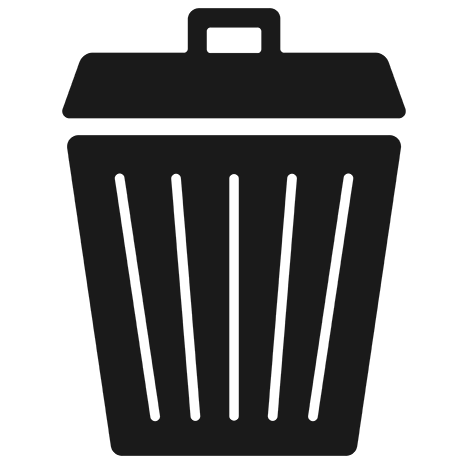
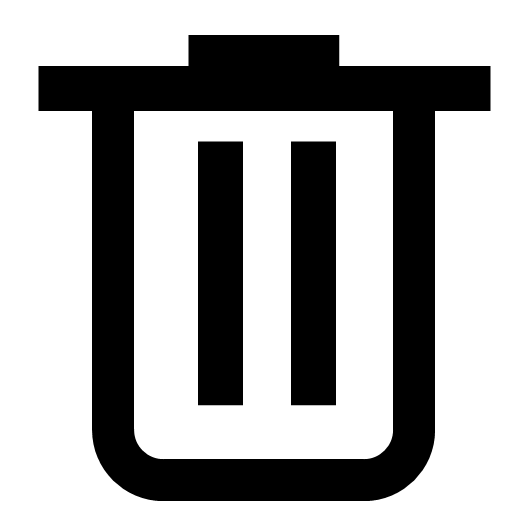
アイコン修正

diff --git a/WpfApp1/WpfApp1/Views/MainView.xaml b/WpfApp1/WpfApp1/Views/MainView.xaml
@@ -61,14 +61,14 @@
                                     <!-- ドラッグ用画像（これをドラッグすると並び替えが可能） -->
                                     <Image  Grid.Row="0" Grid.Column="0" Source="/Picture/drag_icon.png" Width="20" Height="20" VerticalAlignment="Center" Cursor="Hand" />
                                     <!-- 削除ボタン -->
-                                    <Button Grid.Row="0" Grid.Column="1" Command="{Binding DataContext.RemoveTimerCommand, RelativeSource={RelativeSource AncestorType=Window}}" CommandParameter="{Binding}" Width="20" Margin="2" Background="Transparent" BorderBrush="Transparent">
+                                    <Button Grid.Row="0" Grid.Column="1" Command="{Binding DataContext.RemoveTimerCommand, RelativeSource={RelativeSource AncestorType=Window}}" CommandParameter="{Binding}" Width="20" Margin="1" Background="Transparent" BorderBrush="Transparent">
                                         <Button.Content>
                                             <Image Source="/Picture/gomibako.png" />
                                             <!--<Image Source="C:\work\241116_WinApp\WpfApp1\WpfApp1\Picture\gomibako3.png" />-->
                                         </Button.Content>
                                     </Button>
                                     <!--お気に入りボタン-->
-                                    <Button Grid.Row="0" Grid.Column="2" Content="{Binding FavoriteButtonText, UpdateSourceTrigger=PropertyChanged}" Command="{Binding FavoriteChangeCommand}" Width="20" Margin="2" Background="Transparent" BorderBrush="Transparent"/>
+                                    <Button Grid.Row="0" Grid.Column="2" Content="{Binding FavoriteButtonText, UpdateSourceTrigger=PropertyChanged}" Command="{Binding FavoriteChangeCommand}" Width="20" Margin="0" Background="Transparent" BorderBrush="Transparent"/>
                                     <!-- ユーザーが編集可能なタイマー名 -->
                                     <TextBox Grid.Row="0" Grid.Column="3" Text="{Binding CountUpTimerName, UpdateSourceTrigger=PropertyChanged}" VerticalAlignment="Center" Margin="2" />
                                     <!-- カウントアップタイマー -->
